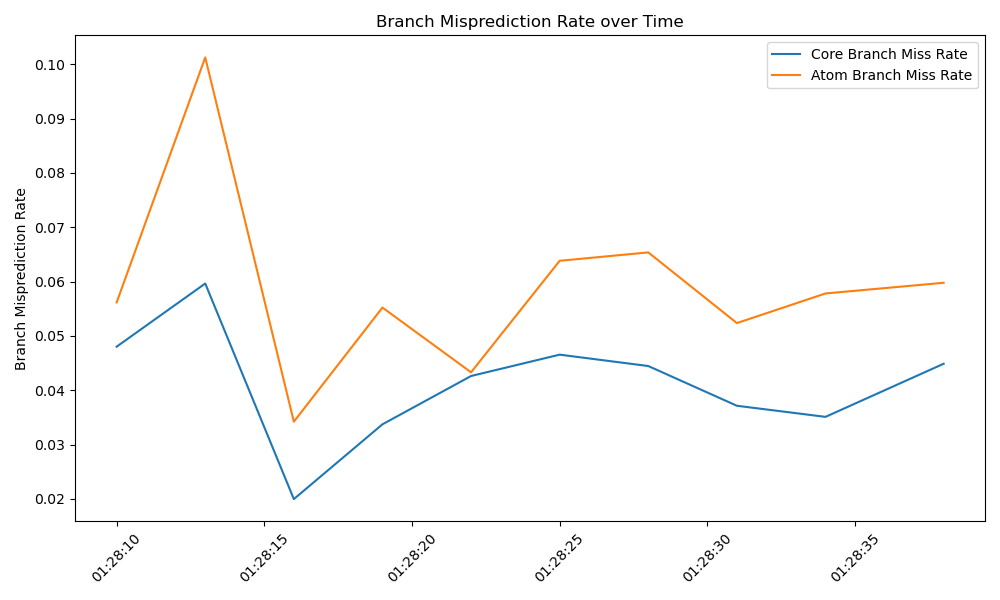
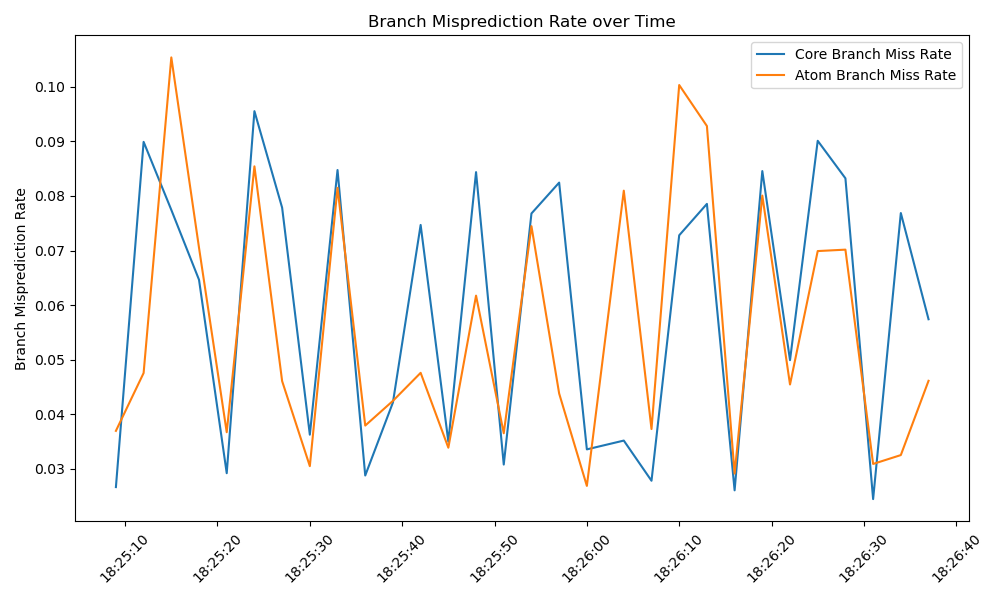
Done

diff --git a/bench/csv_analysis_matplotlib.py b/bench/csv_analysis_matplotlib.py
@@ -17,10 +17,14 @@ def compute_metrics(df):
         return a / b.replace(0, float("nan"))
     df["IPC_core"] = safe_div(df["cpu_core/instructions"], df["cpu_core/cycles"])
     df["IPC_atom"] = safe_div(df["cpu_atom/instructions"], df["cpu_atom/cycles"])
+    df["CPI_core"] = safe_div(df["cpu_core/cycles"], df["cpu_core/instructions"])
+    df["CPI_atom"] = safe_div(df["cpu_atom/cycles"], df["cpu_atom/instructions"])
     df["CacheMissRate_core"] = safe_div(df["cpu_core/cache-misses"], df["cpu_core/cache-references"])
     df["CacheMissRate_atom"] = safe_div(df["cpu_atom/cache-misses"], df["cpu_atom/cache-references"])
     df["BranchMissRate_core"] = safe_div(df["cpu_core/branch-misses"], df["cpu_core/branch-instructions"])
     df["BranchMissRate_atom"] = safe_div(df["cpu_atom/branch-misses"], df["cpu_atom/branch-instructions"])
+    df["BusCycles_core"] = df["cpu_core/bus-cycles"]
+    df["BusCycles_atom"] = df["cpu_atom/bus-cycles"]
     return df
 
 def plot_metrics(df):
@@ -36,6 +40,17 @@ def plot_metrics(df):
     plt.legend()
     plt.tight_layout()
     plt.savefig(os.path.join(output_dir, "ipc_trend.png"))
+    plt.close()
+
+    plt.figure(figsize=(10,6))
+    plt.plot(df["timestamp"], df["CPI_core"], label="Core CPI")
+    plt.plot(df["timestamp"], df["CPI_atom"], label="Atom CPI")
+    plt.xticks(rotation=45)
+    plt.ylabel("Cycles per Instruction (CPI)")
+    plt.title("Atom vs Core CPI over Time")
+    plt.legend()
+    plt.tight_layout()
+    plt.savefig(os.path.join(output_dir, "cpi_trend.png"))
     plt.close()
 
     plt.figure(figsize=(10,6))
@@ -58,6 +73,17 @@ def plot_metrics(df):
     plt.legend()
     plt.tight_layout()
     plt.savefig(os.path.join(output_dir, "branch_miss_trend.png"))
+    plt.close()
+
+    plt.figure(figsize=(10,6))
+    plt.plot(df["timestamp"], df["BusCycles_core"], label="Core Bus Cycles")
+    plt.plot(df["timestamp"], df["BusCycles_atom"], label="Atom Bus Cycles")
+    plt.xticks(rotation=45)
+    plt.ylabel("Bus Cycles (raw)")
+    plt.title("Bus Cycles over Time")
+    plt.legend()
+    plt.tight_layout()
+    plt.savefig(os.path.join(output_dir, "bus_cycles_trend.png"))
     plt.close()
 
 if __name__ == "__main__":

diff --git a/src/measure_latency.py b/src/measure_latency.py
@@ -51,7 +51,7 @@ def save_to_csv(data, filename="../results/csv_files/latency_results.csv"):
         df.to_csv(filename, mode="a", index=False, header=False)
 
 if __name__ == "__main__":
-    runs = 10
+    runs = 30
     interval = 2
     duration = 1
 
